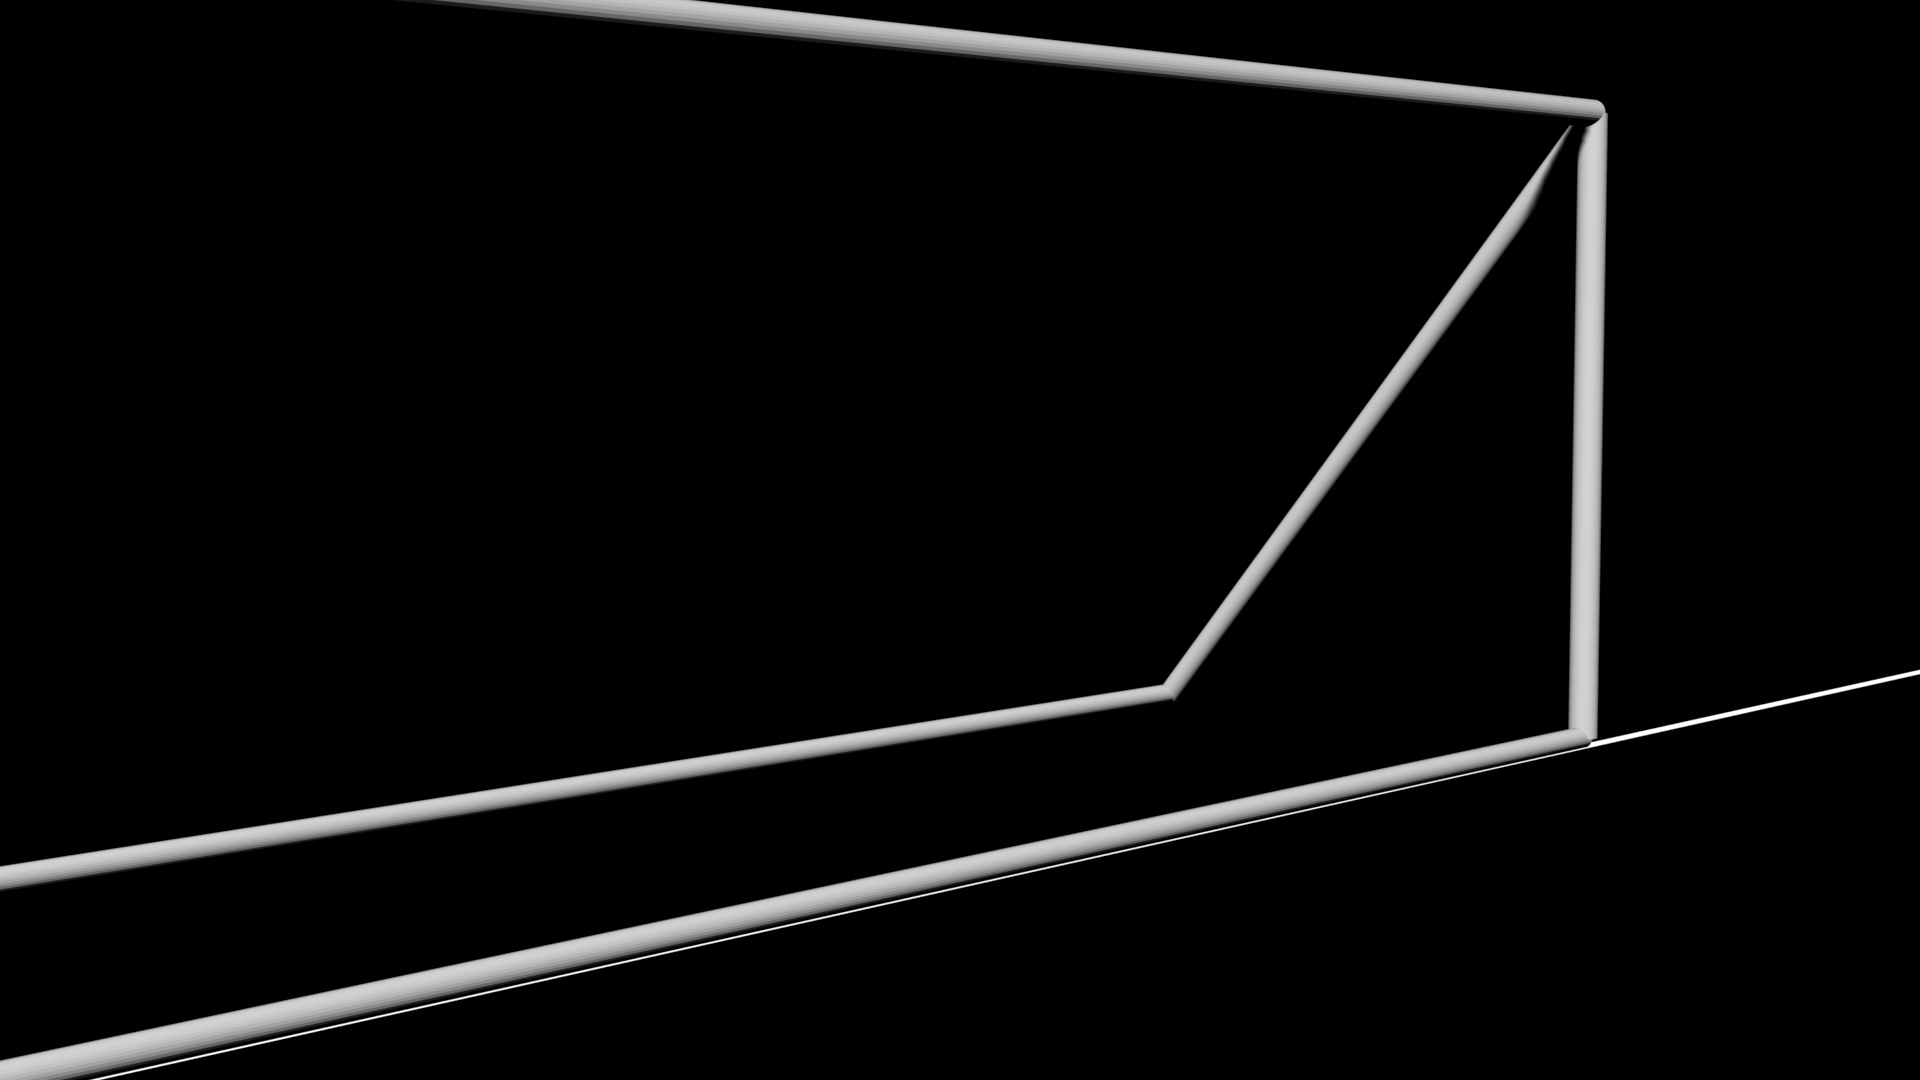
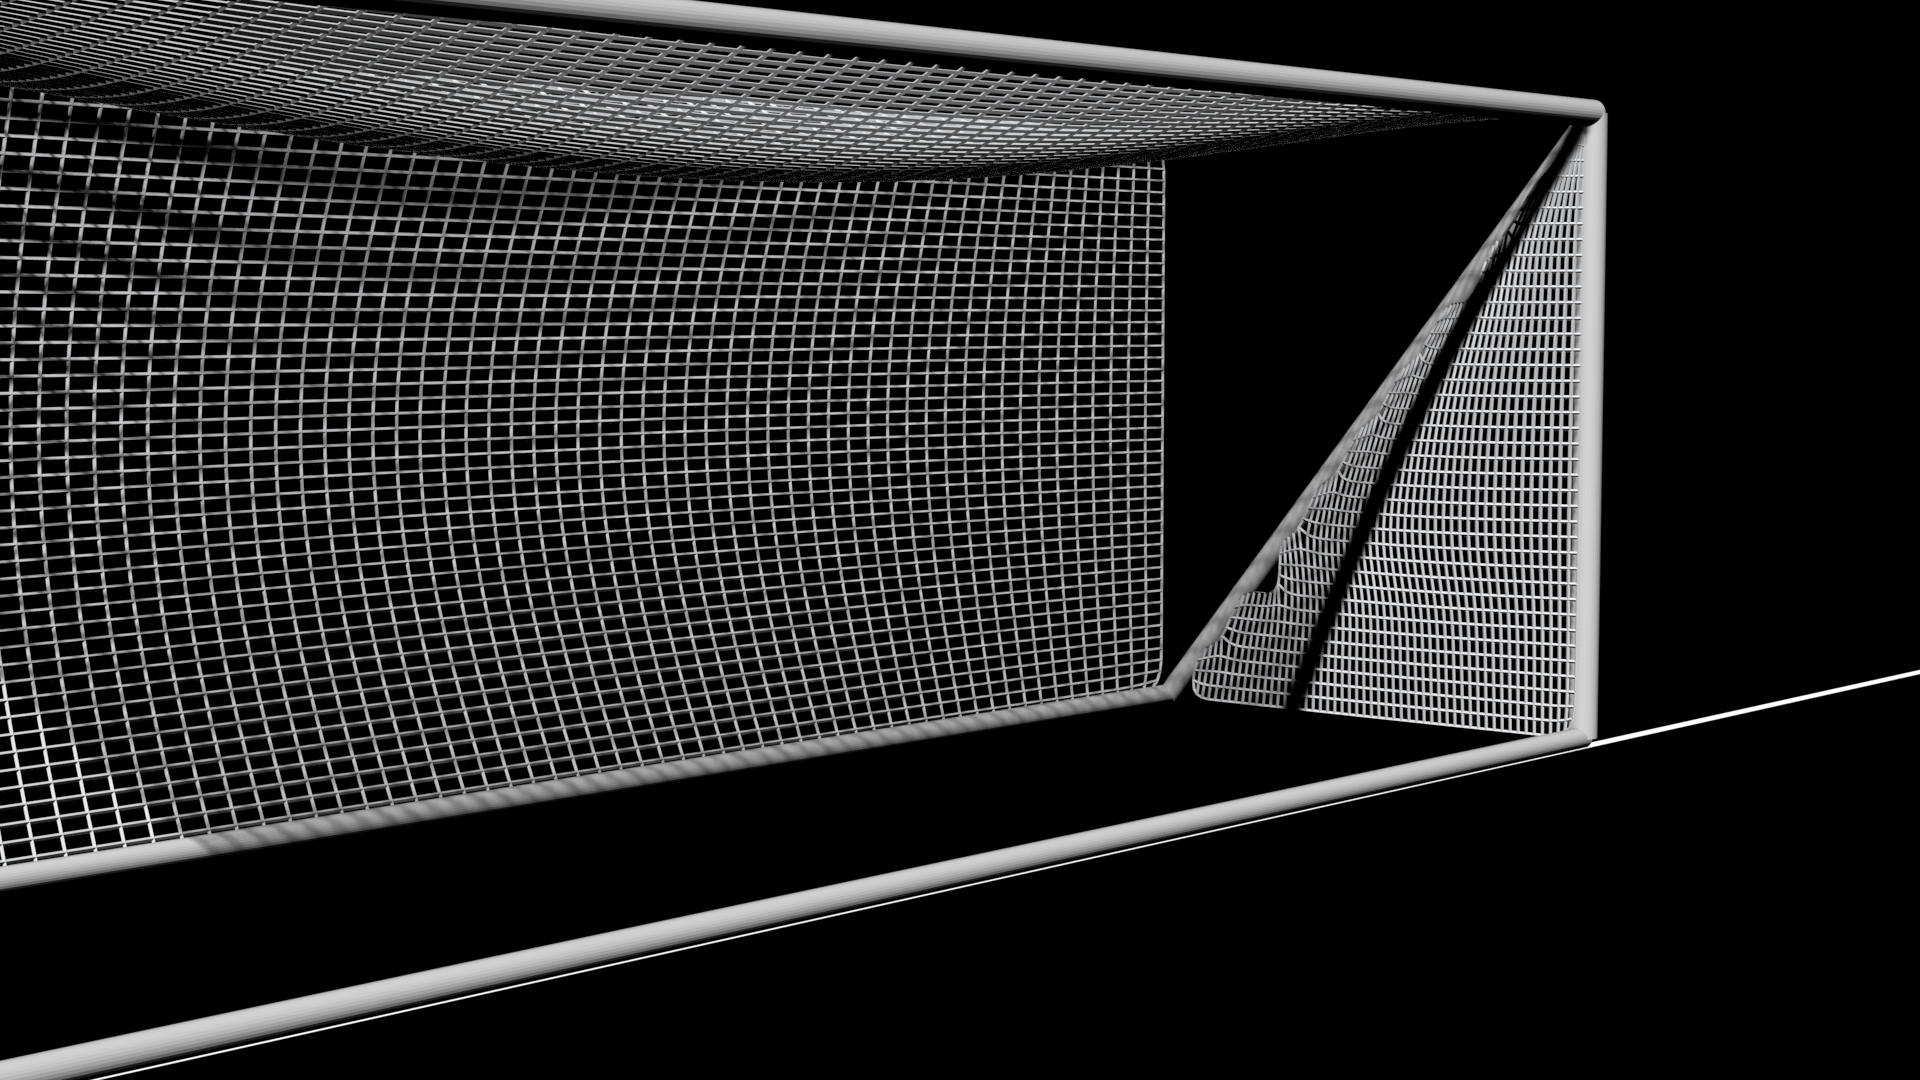
Fix goal net: attach panels to frame corners with wireframe mesh

Changed region(s): [[0.0, 0.0, 0.8438, 0.7944]]

diff --git a/blender/scenes/build_goal.py b/blender/scenes/build_goal.py
@@ -1,12 +1,12 @@
 # SPDX-License-Identifier: MIT
-"""サッカーゴール — 参考画像風（斜め支柱 + たるんだネット）"""
+"""サッカーゴール — 参考画像風（斜め支柱 + フレームに固定されたネット）"""
 
 from __future__ import annotations
 
 import math
 
 import bpy
-from mathutils import Euler, Vector
+from mathutils import Vector
 
 _SCALE = 2.5
 GOAL_INNER_W = 7.32 * _SCALE
@@ -14,6 +14,7 @@ GOAL_H = 2.44 * _SCALE
 POST_R = 0.055 * _SCALE
 NET_DEPTH = 2.0 * _SCALE
 GROUND_Z = POST_R * 0.85
+NET_INSET = POST_R * 1.1  # ポスト内側にネットを付ける
 
 
 def make_post_material(name: str) -> bpy.types.Material:
@@ -41,10 +42,11 @@ def make_net_material(name: str) -> bpy.types.Material:
     links = mat.node_tree.links
     nodes.clear()
     out = nodes.new("ShaderNodeOutputMaterial")
-    emit = nodes.new("ShaderNodeEmission")
-    emit.inputs["Color"].default_value = (0.92, 0.94, 0.96, 1.0)
-    emit.inputs["Strength"].default_value = 0.85
-    links.new(emit.outputs["Emission"], out.inputs["Surface"])
+    bsdf = nodes.new("ShaderNodeBsdfPrincipled")
+    bsdf.inputs["Base Color"].default_value = (0.95, 0.96, 0.98, 1.0)
+    bsdf.inputs["Roughness"].default_value = 0.55
+    bsdf.inputs["Metallic"].default_value = 0.0
+    links.new(bsdf.outputs["BSDF"], out.inputs["Surface"])
     return mat
 
 
@@ -71,117 +73,192 @@ def _cylinder_between(
     return obj
 
 
-def _sag_factor(u: float, v: float) -> float:
-    """中央ほどたるむ（0〜1）"""
-    return math.sin(u * math.pi) * math.sin(v * math.pi)
+def _lerp(a: Vector, b: Vector, t: float) -> Vector:
+    return a + (b - a) * t
 
 
-def _build_draped_net(
+def _sag(u: float, v: float, amount: float, axis: str, inward: float) -> Vector:
+    """中央にたるみを加えるオフセット"""
+    f = math.sin(u * math.pi) * math.sin(v * math.pi)
+    if axis == "x":
+        return Vector((inward * f * amount, 0, 0))
+    if axis == "y":
+        return Vector((0, inward * f * amount, 0))
+    return Vector((0, 0, -f * amount))
+
+
+def _make_net_surface(
     parent: bpy.types.Object,
     name: str,
-    half_w: float,
-    height: float,
-    depth: float,
-    back_x: float,
     mat: bpy.types.Material,
+    corners: tuple[Vector, Vector, Vector, Vector],
+    nu: int,
+    nv: int,
+    sag_axis: str = "none",
+    sag_amount: float = 0.0,
+    sag_inward: float = 1.0,
 ) -> bpy.types.Object:
-    """背面・天面・側面のたるんだ四角メッシュネット"""
-    segs_y = 22
-    segs_z = 14
-    segs_x = 14
-    sag_strength = depth * 0.22
-    top_sag = height * 0.12
-
+    """
+    4隅を結ぶネット面（BL, BR, TR, TL）。
+    面 + ワイヤーフレームで格子状に表示。
+    """
+    bl, br, tr, tl = corners
     verts: list[Vector] = []
-    edges: list[tuple[int, int]] = []
+    faces: list[tuple[int, ...]] = []
 
-    def add_v(x: float, y: float, z: float) -> int:
-        verts.append(Vector((x, y, z)))
-        return len(verts) - 1
-
-    def grid_edges(row_major: list[list[int]], sx: int, sy: int) -> None:
-        for iy in range(sy):
-            for ix in range(sx):
-                i = row_major[iy][ix]
-                if ix + 1 < sx + 1:
-                    edges.append((i, row_major[iy][ix + 1]))
-                if iy + 1 < sy + 1:
-                    edges.append((i, row_major[iy + 1][ix]))
-
-    # --- 背面 ---
-    back_grid: list[list[int]] = []
-    for iz in range(segs_z + 1):
-        row = []
-        tz = iz / segs_z
-        z = tz * height
-        for iy in range(segs_y + 1):
-            ty = iy / segs_y
-            y = (ty - 0.5) * 2 * half_w
-            sag = sag_strength * _sag_factor(ty, tz) * 0.65
-            x = back_x + sag  # フィールド側へたるむ
-            row.append(add_v(x, y, z))
-        back_grid.append(row)
-    grid_edges(back_grid, segs_y, segs_z)
-
-    # --- 天面 ---
-    top_grid: list[list[int]] = []
-    for iy in range(segs_y + 1):
-        row = []
-        ty = iy / segs_y
-        y = (ty - 0.5) * 2 * half_w
-        for ix in range(segs_x + 1):
-            tx = ix / segs_x
-            x = tx * back_x
-            sag_z = top_sag * (_sag_factor(tx, ty) * 0.8 + 0.2 * tx)
-            z = height - sag_z
-            row.append(add_v(x, y, z))
-        top_grid.append(row)
-    grid_edges(top_grid, segs_x, segs_y)
-
-    # --- 左側面 ---
-    side_l: list[list[int]] = []
-    for iz in range(segs_z + 1):
-        row = []
-        tz = iz / segs_z
-        z = tz * height
-        for ix in range(segs_x + 1):
-            tx = ix / segs_x
-            x = tx * back_x
-            sag_y = sag_strength * 0.35 * _sag_factor(tx, tz)
-            y = -half_w + sag_y
-            row.append(add_v(x, y, z))
-        side_l.append(row)
-    grid_edges(side_l, segs_x, segs_z)
-
-    # --- 右側面 ---
-    side_r: list[list[int]] = []
-    for iz in range(segs_z + 1):
-        row = []
-        tz = iz / segs_z
-        z = tz * height
-        for ix in range(segs_x + 1):
-            tx = ix / segs_x
-            x = tx * back_x
-            sag_y = sag_strength * 0.35 * _sag_factor(tx, tz)
-            y = half_w - sag_y
-            row.append(add_v(x, y, z))
-        side_r.append(row)
-    grid_edges(side_r, segs_x, segs_z)
+    for j in range(nv + 1):
+        v = j / nv
+        left = _lerp(bl, tl, v)
+        right = _lerp(br, tr, v)
+        row: list[int] = []
+        for i in range(nu + 1):
+            u = i / nu
+            p = _lerp(left, right, u)
+            if sag_axis != "none":
+                p += _sag(u, v, sag_amount, sag_axis, sag_inward)
+            verts.append(p)
+            row.append(len(verts) - 1)
+        if j == 0:
+            grid = [row]
+        else:
+            grid.append(row)
+            for i in range(nu):
+                faces.append((grid[j - 1][i], grid[j - 1][i + 1], grid[j][i + 1], grid[j][i]))
 
     mesh = bpy.data.meshes.new(name)
-    mesh.from_pydata(verts, edges, [])
+    mesh.from_pydata(verts, [], faces)
     mesh.update()
     obj = bpy.data.objects.new(name, mesh)
     bpy.context.collection.objects.link(obj)
     obj.parent = parent
     obj.data.materials.append(mat)
 
-    # 細い円柱風メッシュ（Skinの代わり — バッチ処理で安定）
-    bevel = obj.modifiers.new("Bevel", "BEVEL")
-    bevel.affect = "EDGES"
-    bevel.width = 0.022
-    bevel.segments = 2
+    subdiv = obj.modifiers.new("Subdiv", "SUBSURF")
+    subdiv.levels = 2
+    subdiv.render_levels = 2
+    wf = obj.modifiers.new("Wireframe", "WIREFRAME")
+    wf.thickness = 0.035
+    wf.use_replace = True
+    wf.use_boundary = True
     return obj
+
+
+def _make_net_triangle(
+    parent: bpy.types.Object,
+    name: str,
+    mat: bpy.types.Material,
+    c_bl: Vector,
+    c_br: Vector,
+    c_top: Vector,
+    nu: int,
+    nv: int,
+    sag_axis: str = "y",
+    sag_amount: float = 0.0,
+    sag_inward: float = 1.0,
+) -> bpy.types.Object:
+    """底辺 bl-br、頂点 top の三角形ネット"""
+    verts: list[Vector] = []
+    faces: list[tuple[int, ...]] = []
+    grid: list[list[int]] = []
+
+    for j in range(nv + 1):
+        v = j / nv
+        row: list[int] = []
+        left = _lerp(c_bl, c_top, v)
+        right = _lerp(c_br, c_top, v)
+        cols = max(2, int(round(nu * (1.0 - v * 0.85))))
+        for i in range(cols + 1):
+            u = i / cols
+            p = _lerp(left, right, u)
+            if sag_axis != "none":
+                p += _sag(u, v, sag_amount, sag_axis, sag_inward)
+            verts.append(p)
+            row.append(len(verts) - 1)
+        grid.append(row)
+
+    for j in range(1, len(grid)):
+        for i in range(len(grid[j]) - 1):
+            a, b = grid[j - 1][i], grid[j - 1][min(i + 1, len(grid[j - 1]) - 1)]
+            c, d = grid[j][i + 1], grid[j][i]
+            if a != b:
+                faces.append((a, b, c, d))
+
+    mesh = bpy.data.meshes.new(name)
+    mesh.from_pydata(verts, [], faces)
+    mesh.update()
+    obj = bpy.data.objects.new(name, mesh)
+    bpy.context.collection.objects.link(obj)
+    obj.parent = parent
+    obj.data.materials.append(mat)
+    subdiv = obj.modifiers.new("Subdiv", "SUBSURF")
+    subdiv.levels = 2
+    wf = obj.modifiers.new("Wireframe", "WIREFRAME")
+    wf.thickness = 0.035
+    wf.use_replace = True
+    return obj
+
+
+def _build_attached_net(
+    parent: bpy.types.Object,
+    name: str,
+    half_w: float,
+    height: float,
+    back_x: float,
+    mat: bpy.types.Material,
+) -> None:
+    """フレームの柱・バー・斜め支柱にぴったり接続したネット"""
+    hw = half_w - NET_INSET
+    gz = GROUND_Z
+    gh = GOAL_H
+    inward = -1.0 if back_x < 0 else 1.0  # フィールド側へたるむ向き
+    sag_d = abs(back_x) * 0.18
+    sag_top = height * 0.14
+
+    # 背面（奥の地面バー上端〜クロスバー高さ、奥バーに固定）
+    _make_net_surface(
+        parent, f"{name}_Back", mat,
+        corners=(
+            Vector((back_x, -hw, gz)),
+            Vector((back_x, hw, gz)),
+            Vector((back_x, hw, gh)),
+            Vector((back_x, -hw, gh)),
+        ),
+        nu=18, nv=12,
+        sag_axis="x", sag_amount=sag_d, sag_inward=inward,
+    )
+
+    # 天面（クロスバー前面〜奥上、たるみ）
+    _make_net_surface(
+        parent, f"{name}_Top", mat,
+        corners=(
+            Vector((0, -hw, gh)),
+            Vector((0, hw, gh)),
+            Vector((back_x, hw, gh)),
+            Vector((back_x, -hw, gh)),
+        ),
+        nu=16, nv=14,
+        sag_axis="z", sag_amount=sag_top, sag_inward=1.0,
+    )
+
+    # 左側面（前柱・奥地面・斜め支柱の三角形に沿う）
+    _make_net_triangle(
+        parent, f"{name}_SideL", mat,
+        c_bl=Vector((0, -hw, gz)),
+        c_br=Vector((back_x, -hw, gz)),
+        c_top=Vector((0, -hw, gh)),
+        nu=14, nv=10,
+        sag_axis="y", sag_amount=sag_d * 0.5, sag_inward=1.0,
+    )
+
+    # 右側面
+    _make_net_triangle(
+        parent, f"{name}_SideR", mat,
+        c_bl=Vector((0, hw, gz)),
+        c_br=Vector((back_x, hw, gz)),
+        c_top=Vector((0, hw, gh)),
+        nu=14, nv=10,
+        sag_axis="y", sag_amount=sag_d * 0.5, sag_inward=-1.0,
+    )
 
 
 def build_goal(goalline_x: float, side: str, post_mat, net_mat) -> bpy.types.Object:
@@ -200,21 +277,15 @@ def build_goal(goalline_x: float, side: str, post_mat, net_mat) -> bpy.types.Obj
     bl = Vector((back_x, -half_w, GROUND_Z))
     br = Vector((back_x, half_w, GROUND_Z))
 
-    # 正面フレーム
     _cylinder_between(root, f"Goal_{side}_PostL", fl, tl, POST_R, post_mat)
     _cylinder_between(root, f"Goal_{side}_PostR", fr, tr, POST_R, post_mat)
     _cylinder_between(root, f"Goal_{side}_Crossbar", tl, tr, POST_R * 0.95, post_mat)
     _cylinder_between(root, f"Goal_{side}_FrontGround", fl, fr, POST_R * 0.75, post_mat)
-
-    # 背面地面バー
     _cylinder_between(root, f"Goal_{side}_BackGround", bl, br, POST_R * 0.75, post_mat)
-
-    # 斜め支柱（参考画像の三角形シルエット）
     _cylinder_between(root, f"Goal_{side}_StrutL", tl, bl, POST_R * 0.82, post_mat)
     _cylinder_between(root, f"Goal_{side}_StrutR", tr, br, POST_R * 0.82, post_mat)
 
-    # たるんだネット
-    _build_draped_net(root, f"Goal_{side}_Net", half_w, GOAL_H, NET_DEPTH, back_x, net_mat)
+    _build_attached_net(root, f"Goal_{side}_Net", half_w, GOAL_H, back_x, net_mat)
 
     return root
 
@@ -224,4 +295,4 @@ def build_both_goals(half_pitch_length: float) -> None:
     net_mat = make_net_material("GoalNet")
     build_goal(-half_pitch_length, "L", post_mat, net_mat)
     build_goal(half_pitch_length, "R", post_mat, net_mat)
-    print(f"Goals: classic frame + draped net  (W={GOAL_INNER_W:.1f} H={GOAL_H:.1f})")
+    print(f"Goals: frame + attached net panels  (W={GOAL_INNER_W:.1f} H={GOAL_H:.1f})")
